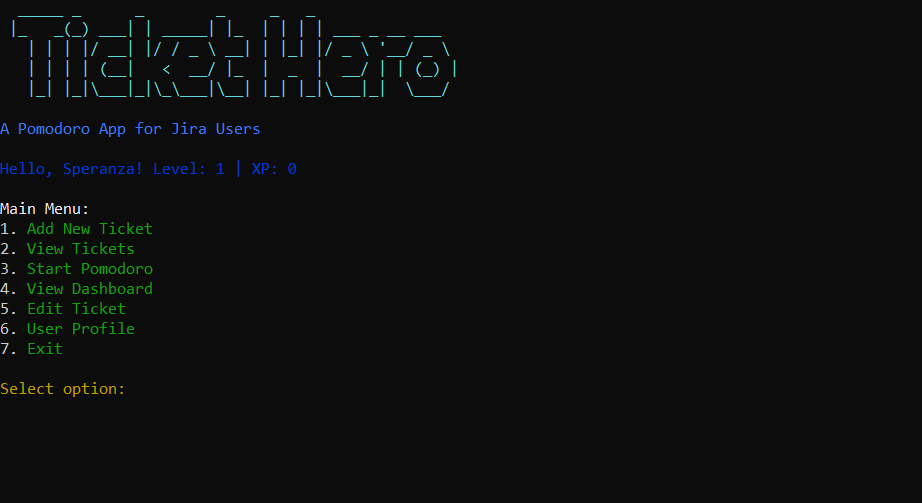
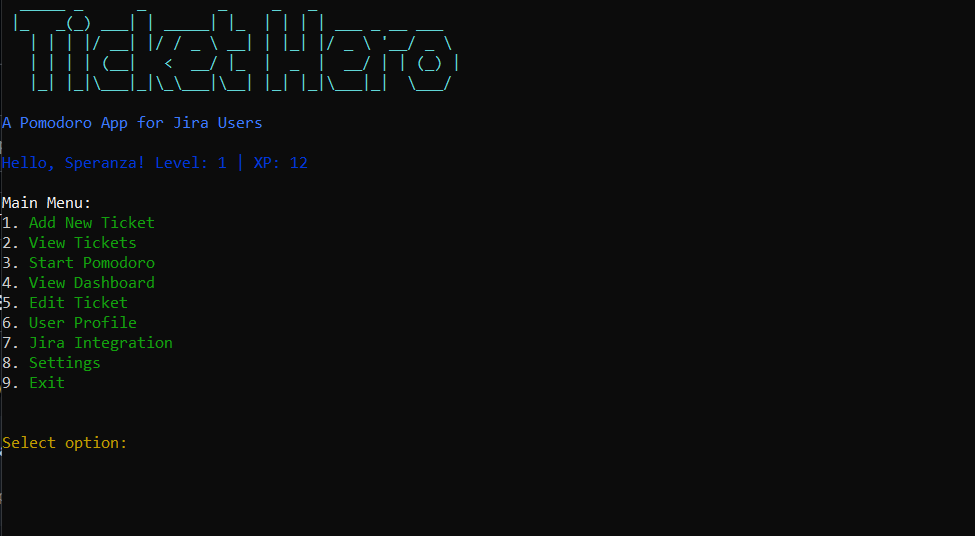
doc - updated for jira integration

Changed region(s): [[0.0, 0.0298, 0.5163, 0.835], [0.243, 0.2982, 0.3341, 0.3579], [0.0304, 0.0, 0.0607, 0.0298]]

diff --git a/README.md b/README.md
@@ -4,17 +4,32 @@
 ![License](https://img.shields.io/npm/l/ticket-hero-sdk)
 ![Node Version](https://img.shields.io/node/v/ticket-hero-sdk)
 
-A command-line Pomodoro timer and task management application designed specifically for Jira users. Ticket Hero helps you track time spent on tickets, earn XP for completing tasks, and manage your work with the Pomodoro technique.
+A command-line Pomodoro timer and task management application designed specifically for developers and Jira users. Ticket Hero helps you track time spent on tickets, earn XP for completing tasks, and manage your work with the Pomodoro technique.
 
 ## Features
 
-- **Pomodoro Timer**: Work in focused 25-minute intervals with automatic breaks
+- **Pomodoro Timer**: Work in focused time intervals with automatic breaks
 - **Ticket Management**: Add, view, and edit tickets with story points and allocated time
 - **Gamified Experience**: Earn XP and level up as you complete tickets
 - **Dashboard**: View statistics and recent activity
+- **Jira Integration**: Import tickets from Jira and update their status
 - **User Profiles**: Create and update your profile
 - **Progress Tracking**: Visual progress bars during Pomodoro sessions
 - **Configurable Settings**: Customize Pomodoro durations, XP rates, and UI preferences
+
+## Screenshots
+
+### Main Menu
+![Ticket Hero Main Menu](./assets/ticket-hero-main.png)
+
+### Dashboard View
+![Ticket Hero Dashboard](./assets/ticket-hero-dashboard.png)
+
+### Pomodoro Timer
+![Ticket Hero Timer](./assets/ticket-hero-timer.png)
+
+### Ticket View
+![Ticket Hero Ticket View](./assets/ticket-hero-view.png)
 
 ## Installation
 
@@ -49,7 +64,9 @@ Upon starting Ticket Hero, you'll be presented with the main menu:
 4. **View Dashboard** - See your stats and recent activity
 5. **Edit Ticket** - Modify existing tickets
 6. **User Profile** - Update your user profile
-7. **Exit** - Close the application
+7. **Jira Integration** - Import tickets from Jira and update ticket status
+8. **Settings** - Configure application settings
+9. **Exit** - Close the application
 
 ### Pomodoro Controls
 
@@ -59,6 +76,23 @@ During a Pomodoro session, you can use the following keyboard commands:
 - **S**: Skip the current period
 - **C**: Complete the ticket
 - **Q**: Quit without saving progress
+
+### Jira Integration
+
+Ticket Hero includes integration with Jira to help you manage your work:
+
+1. **Import Tickets from Jira** - Pull your assigned tickets directly into Ticket Hero
+2. **Update Jira Ticket Status** - Update ticket status in Jira when completed in Ticket Hero
+3. **Setup/Change Jira Connection** - Configure your Jira connection
+
+To set up Jira integration:
+1. Go to Settings and enable Jira Integration
+2. Go to Jira Integration menu and select "Setup/Change Jira Connection"
+3. Enter your Jira host (e.g., `company.atlassian.net`)
+4. Enter your Jira email/username
+5. Enter your Jira API token
+   - For Jira Cloud, create an API token at: https://id.atlassian.com/manage-profile/security/api-tokens
+   - For Jira Server, use your regular password
 
 ### Configuration
 
@@ -88,31 +122,55 @@ Ticket Hero can be configured by creating or editing the `config.json` file in t
     "colorTheme": "default",
     "useEmojis": true,
     "showProgressBar": true
+  },
+  "jira": {
+    "enabled": false,
+    "updateTicketOnComplete": true,
+    "autoImport": false,
+    "autoImportFrequencyInHours": 24
   }
 }
 ```
 
 ## Data Storage
 
-All data is stored locally in a JSON file (`ticket-hero-data.json` by default). This includes:
+All data is stored locally:
 
-- User profile information
-- Ticket details
-- Statistics and progress
+- User profile information, tickets, and statistics are saved in `ticket-hero-data.json`
+- Configuration is saved in `config.json`
+- Jira credentials are securely stored in your system's keychain
 
-## Screenshots
+## Troubleshooting Jira Integration
 
-### Main Menu
-![Ticket Hero Main Menu](./assets/ticket-hero-main.png)
+If you encounter issues with Jira integration:
 
-### Dashboard View
-![Ticket Hero Dashboard](./assets/ticket-hero-dashboard.png)
+1. **No tickets showing up**: 
+   - Make sure tickets are assigned to you in Jira
+   - Check that tickets are not in the "Done" or "Closed" status
+   - Verify your Jira credentials and connection
 
-### Pomodoro Timer
-![Ticket Hero Timer](./assets/ticket-hero-timer.png)
+2. **Can't update ticket status**:
+   - Ensure you have permissions to transition the ticket
+   - Check the available transitions in your Jira workflow
 
-### Ticket View
-![Ticket Hero Ticket View](./assets/ticket-hero-view.png)
+3. **Connection issues**:
+   - For Jira Cloud, make sure you're using an API token, not your password
+   - Check that your Jira host URL is correct (e.g., `company.atlassian.net`)
+
+## Contributing
+
+Contributions are welcome! This is an open-source project, and we'd love your help improving it. Here are ways you can contribute:
+
+1. Report bugs by opening issues
+2. Submit pull requests for new features or bug fixes
+3. Improve documentation
+4. Suggest new features or enhancements
+
+Please read our [Contributing Guide](CONTRIBUTING.md) for more details.
+
+## License
+
+This project is licensed under the MIT License - see the [LICENSE](LICENSE) file for details.
 
 ## Credits
 
@@ -120,10 +178,6 @@ Ticket Hero uses the following npm packages:
 
 - [chalk](https://www.npmjs.com/package/chalk) - Terminal string styling
 - [cli-progress](https://www.npmjs.com/package/cli-progress) - Progress bars in the terminal
-- [cli-table3](https://www.npmjs.com/package/cli-table3) - Tables in the terminal
 - [figlet](https://www.npmjs.com/package/figlet) - ASCII art from text
-- [ora](https://www.npmjs.com/package/ora) - Elegant terminal spinners
-
-## License
-
-This project is licensed under the MIT License - see the [LICENSE](LICENSE) file for details.
+- [jira-client](https://www.npmjs.com/package/jira-client) - Jira API client
+- [keytar](https://www.npmjs.com/package/keytar) - Secure credential storage
